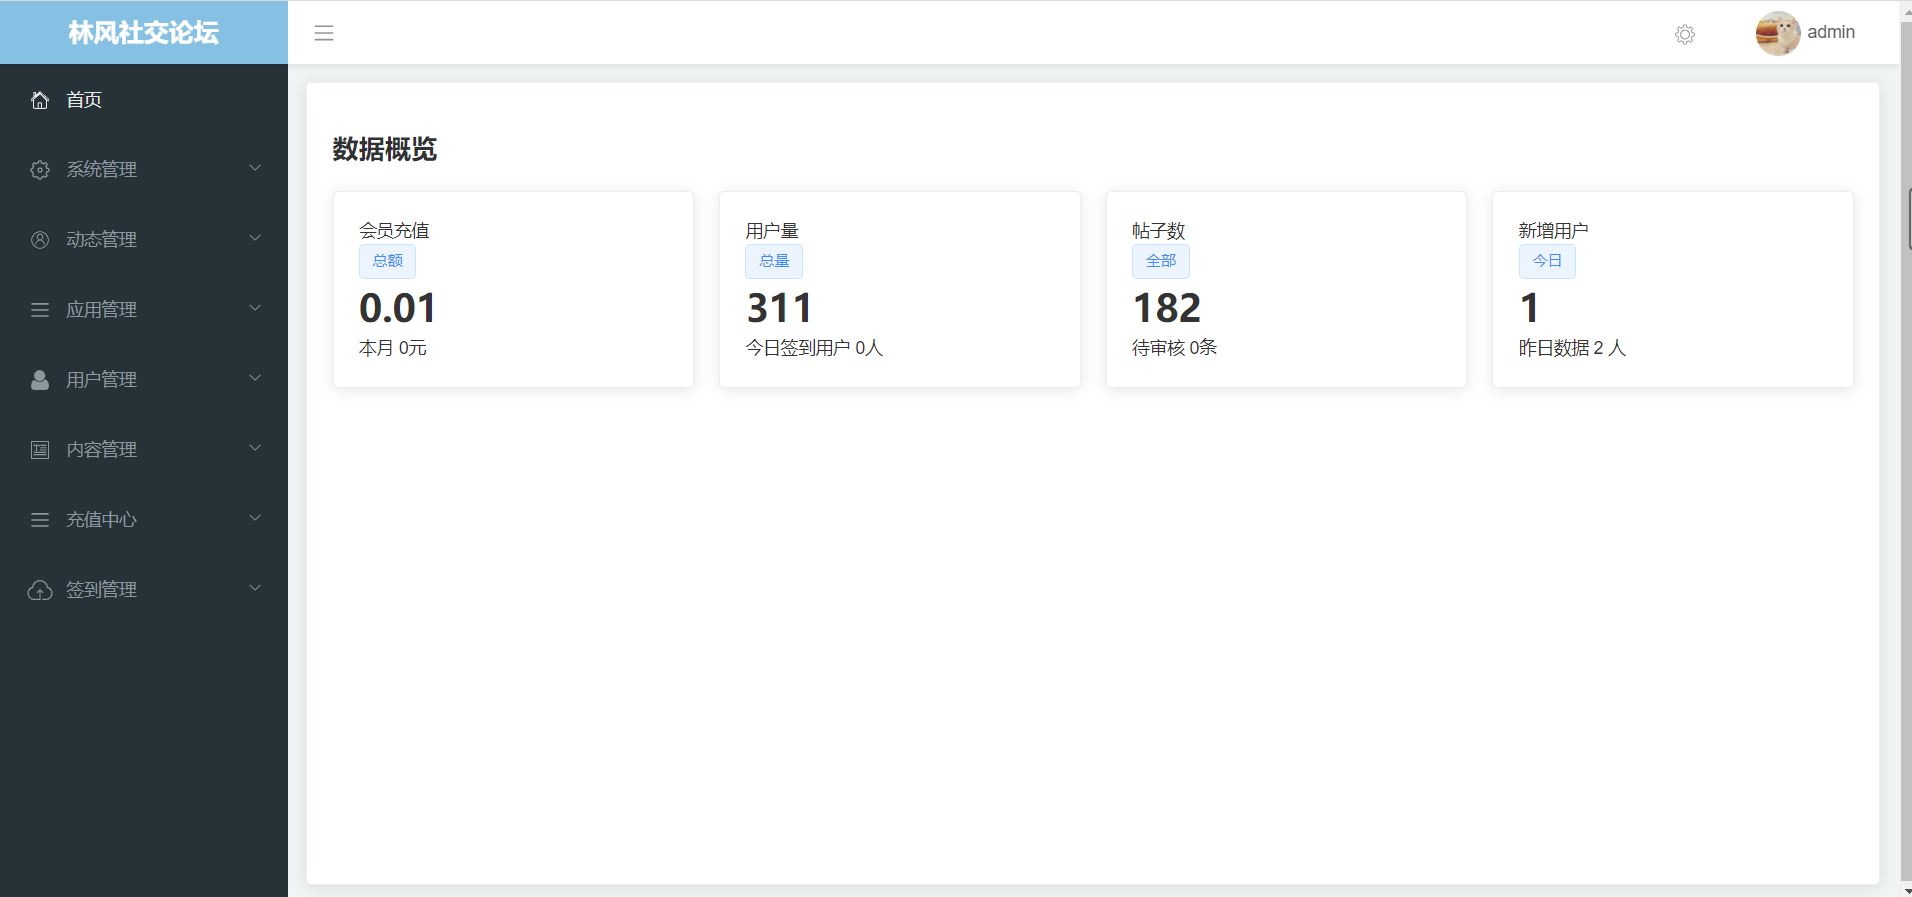
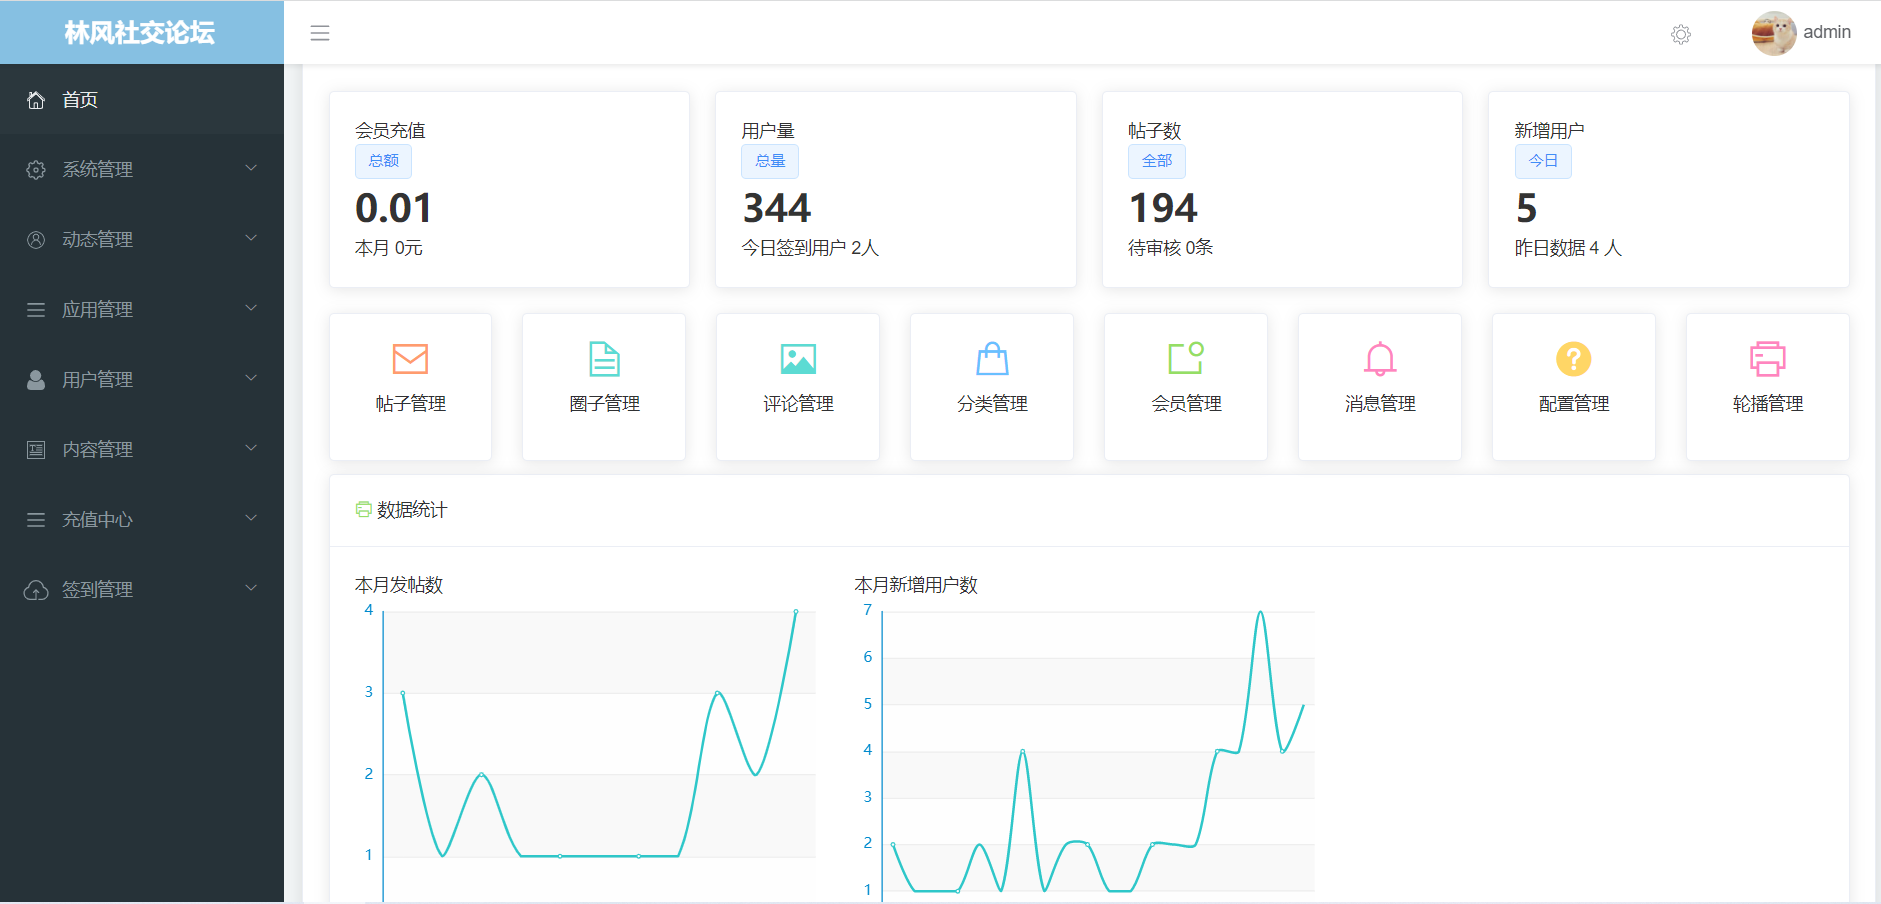
开放后台管理系统演示站点

diff --git a/README.md b/README.md
@@ -31,7 +31,17 @@
 
 ##### 2.3后台管理端效果截图
 
+后台管理系统演示站点：
+
+https://dev.linfeng.tech
+
+演示账号： test       
+
+密码：123456
+
 ![](https://gitee.com/virus010101/linfeng-community/raw/master/images/showPic05.png)
+
+![](https://gitee.com/virus010101/linfeng-community/raw/master/images/showPic25.png)
 
 ![](https://gitee.com/virus010101/linfeng-community/raw/master/images/showPic06.png)
 
